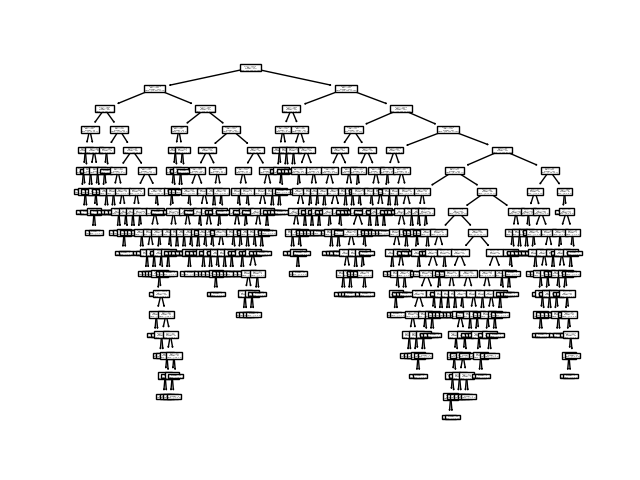
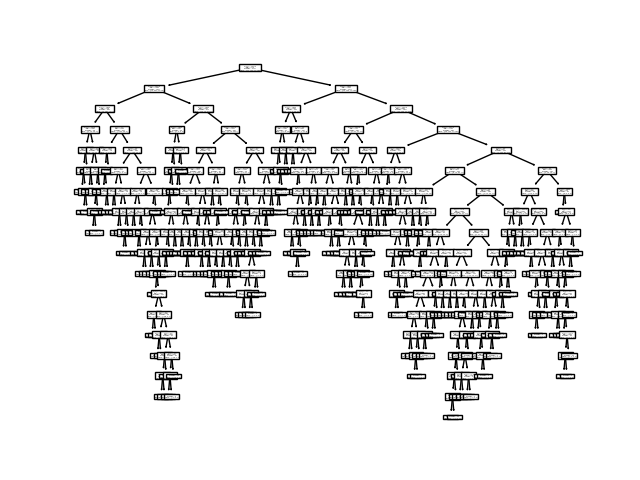
POC C code generation

diff --git a/proof_of_concept/tree_to_code.py b/proof_of_concept/tree_to_code.py
@@ -1,0 +1,50 @@
+# Shamelessly "borrowed" from:
+# https://github.com/arturyumaev/Rules-Extraction-from-sklearn-DecisionTreeClassifier
+# And slightly modified to fit the purpose of classification for gestures
+from sklearn.tree import _tree
+
+
+def tree_to_code(tree, feature_names=range(0, 28)):
+    file = open("decision_tree.c", "w")
+
+    nspaces = 4
+    tree_ = tree.tree_
+    feature_name = [
+        feature_names[i] if i != _tree.TREE_UNDEFINED else "undefined!"
+        for i in tree_.feature
+    ]
+
+    file.write("unsigned char GestureClassificationDecisionTree(short int* features)")
+    file.write("{")
+
+    def recurse(node, depth):
+        indent = " " * nspaces * depth
+
+        if tree_.feature[node] != _tree.TREE_UNDEFINED:
+            name = feature_name[node]
+            threshold = tree_.threshold[node]
+
+            file.write("\n{}if (features[{}] <= {:0.0f})".format(indent, name, threshold) + " {")
+
+            recurse(tree_.children_left[node], depth + 1)
+
+            file.write("{}".format(indent) + "} else {")
+
+            recurse(tree_.children_right[node], depth + 1)
+
+            file.write("\n" + "{}".format(indent) + "}\n")
+        else:
+            classification_index = [ind for ind, x in enumerate(tree_.value[node][0]) if x != 0][0]
+            file.write("\n{}return {};\n".format(indent, classification_index))
+
+    recurse(0, 1)
+
+    file.write("}\n")
+    file.write("#include <stdio.h>\n")
+    file.write("int main(int argc, char** argv) {\n")
+    file.write("short int args[27];\n")
+    file.write("for (char i = 0; i < 27; ++i) sscanf(argv[i+1], \"%hd\", &args[i]);\n")
+    file.write("char result = GestureClassificationDecisionTree(args);\n")
+    file.write("printf(\"Result: %d\\n\", (int) result);\n")
+    file.write("}\n")
+    file.close()

diff --git a/proof_of_concept/decision_tree.py b/proof_of_concept/decision_tree.py
@@ -4,6 +4,8 @@ from sklearn import tree
 from sklearn.ensemble import RandomForestClassifier
 from sklearn.model_selection import train_test_split
 
+from tree_to_code import *
+
 
 def evaluate_predicted(predicted, y_test):
     true_positive = [0, 0, 0, 0, 0, 0, 0, 0, 0, 0]
@@ -77,6 +79,8 @@ def decision_tree(X_train, y_train, X_test, y_test):
     print("Evaluating DecisionTreeClassifier:")
     evaluate_predicted(predicted, y_test)
 
+    tree_to_code(clf)
+
 
 def random_forest(X_train, y_train, X_test, y_test):
     clf = RandomForestClassifier(criterion='entropy', n_estimators=64, random_state=1, n_jobs=16)
@@ -89,4 +93,4 @@ def random_forest(X_train, y_train, X_test, y_test):
 
 
 decision_tree(X_train, y_train, X_test, y_test)
-random_forest(X_train, y_train, X_test, y_test)
+# random_forest(X_train, y_train, X_test, y_test)

diff --git a/prepare_data/gesture_extractor/src/main.rs b/prepare_data/gesture_extractor/src/main.rs
@@ -13,7 +13,7 @@ use lib_gesture::tools::parse_gestures;
 use crate::strum::IntoEnumIterator;
 
 fn main() {
-    let folder_fix = vec!["Dymel_EvaGarbage", "Eva9pixel", "Eva16pixel"];
+    let folder_fix = vec!["Eva9pixel", "Eva16pixel"];
     let direction_fix = vec!["LRRL", "TBBT", "Garbage"];
     let object_fix = vec!["hand", "finger", "lt"];
     let distance_fix = vec![3, 5, 10, 20, 30, 40, 50, 60, 70, 80, 90, 100, 110, 120, 130, 140, 150];
